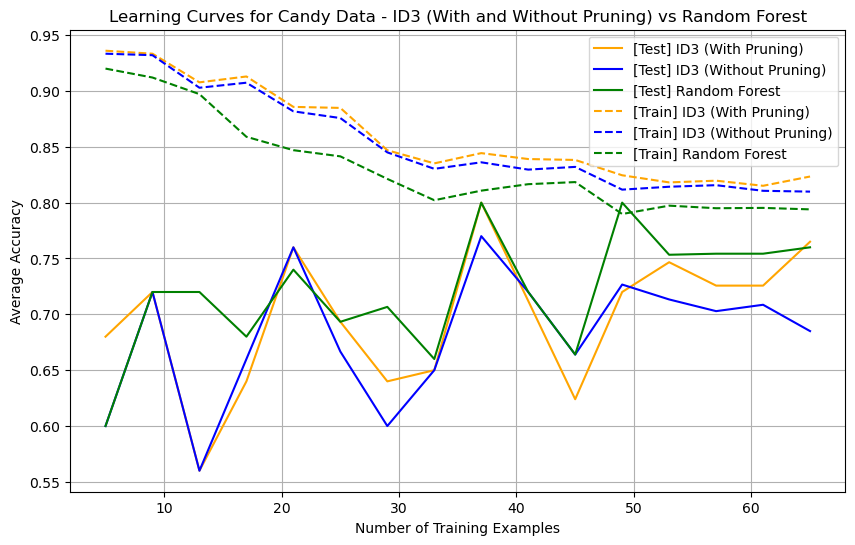
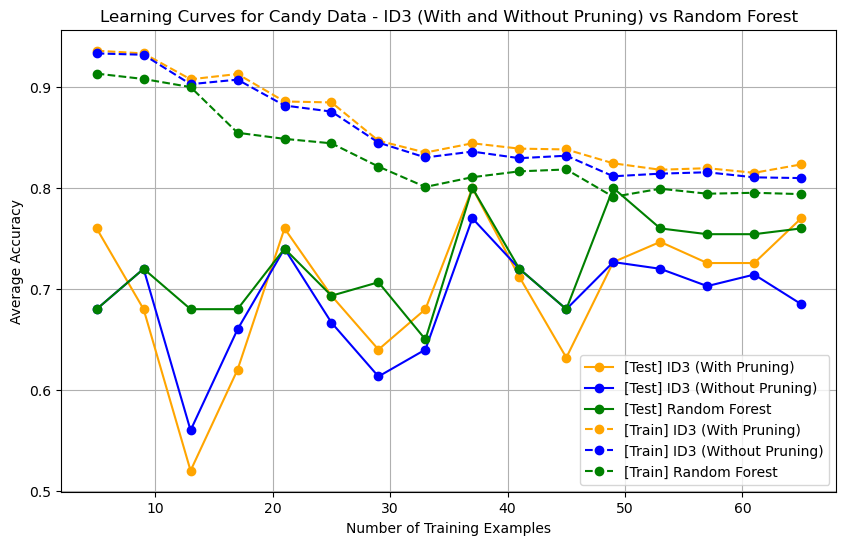
Update graphs to include dots

diff --git a/homework-1/tune_random_forest.py b/homework-1/tune_random_forest.py
@@ -4,9 +4,8 @@ Unit Tests
 import math
 import random
 
-import matplotlib.pyplot as plt
-
 import ID3
+import matplotlib.pyplot as plt
 import parse
 from random_forest import RandomForest
 
@@ -30,18 +29,21 @@ def plot_random_forest_id3_accuracies(
         avg_test_accuracy_id3_pruning,
         label="[Test] ID3 (With Pruning)",
         color="orange",
+        marker="o",
     )
     plt.plot(
         training_sizes,
         avg_test_accuracy_id3_not_pruning,
         label="[Test] ID3 (Without Pruning)",
         color="blue",
+        marker="o",
     )
     plt.plot(
         training_sizes,
         avg_test_accuracy_rf,
         label="[Test] Random Forest",
         color="green",
+        marker="o",
     )
     plt.plot(
         training_sizes,
@@ -49,6 +51,7 @@ def plot_random_forest_id3_accuracies(
         label="[Train] ID3 (With Pruning)",
         color="orange",
         linestyle="--",
+        marker="o",
     )
     plt.plot(
         training_sizes,
@@ -56,6 +59,7 @@ def plot_random_forest_id3_accuracies(
         label="[Train] ID3 (Without Pruning)",
         color="blue",
         linestyle="--",
+        marker="o",
     )
     plt.plot(
         training_sizes,
@@ -63,6 +67,7 @@ def plot_random_forest_id3_accuracies(
         label="[Train] Random Forest",
         color="green",
         linestyle="--",
+        marker="o",
     )
     plt.xlabel("Number of Training Examples")
     plt.ylabel("Average Accuracy")

diff --git a/homework-1/plot_learning_curves.py b/homework-1/plot_learning_curves.py
@@ -5,9 +5,8 @@ tennis data.
 import math
 import random
 
-import matplotlib.pyplot as plt
-
 import ID3
+import matplotlib.pyplot as plt
 import parse
 
 
@@ -33,12 +32,14 @@ def plot_learning_curve(
         avg_accuracies_with_pruning,
         label="With Pruning",
         color="orange",
+        marker="o",
     )
     plt.plot(
         training_sizes,
         avg_accuracies_without_pruning,
         label="Without Pruning",
         color="blue",
+        marker="o",
     )
     plt.xlabel("Number of Training Examples")
     plt.ylabel("Average Accuracy on Test Data")
